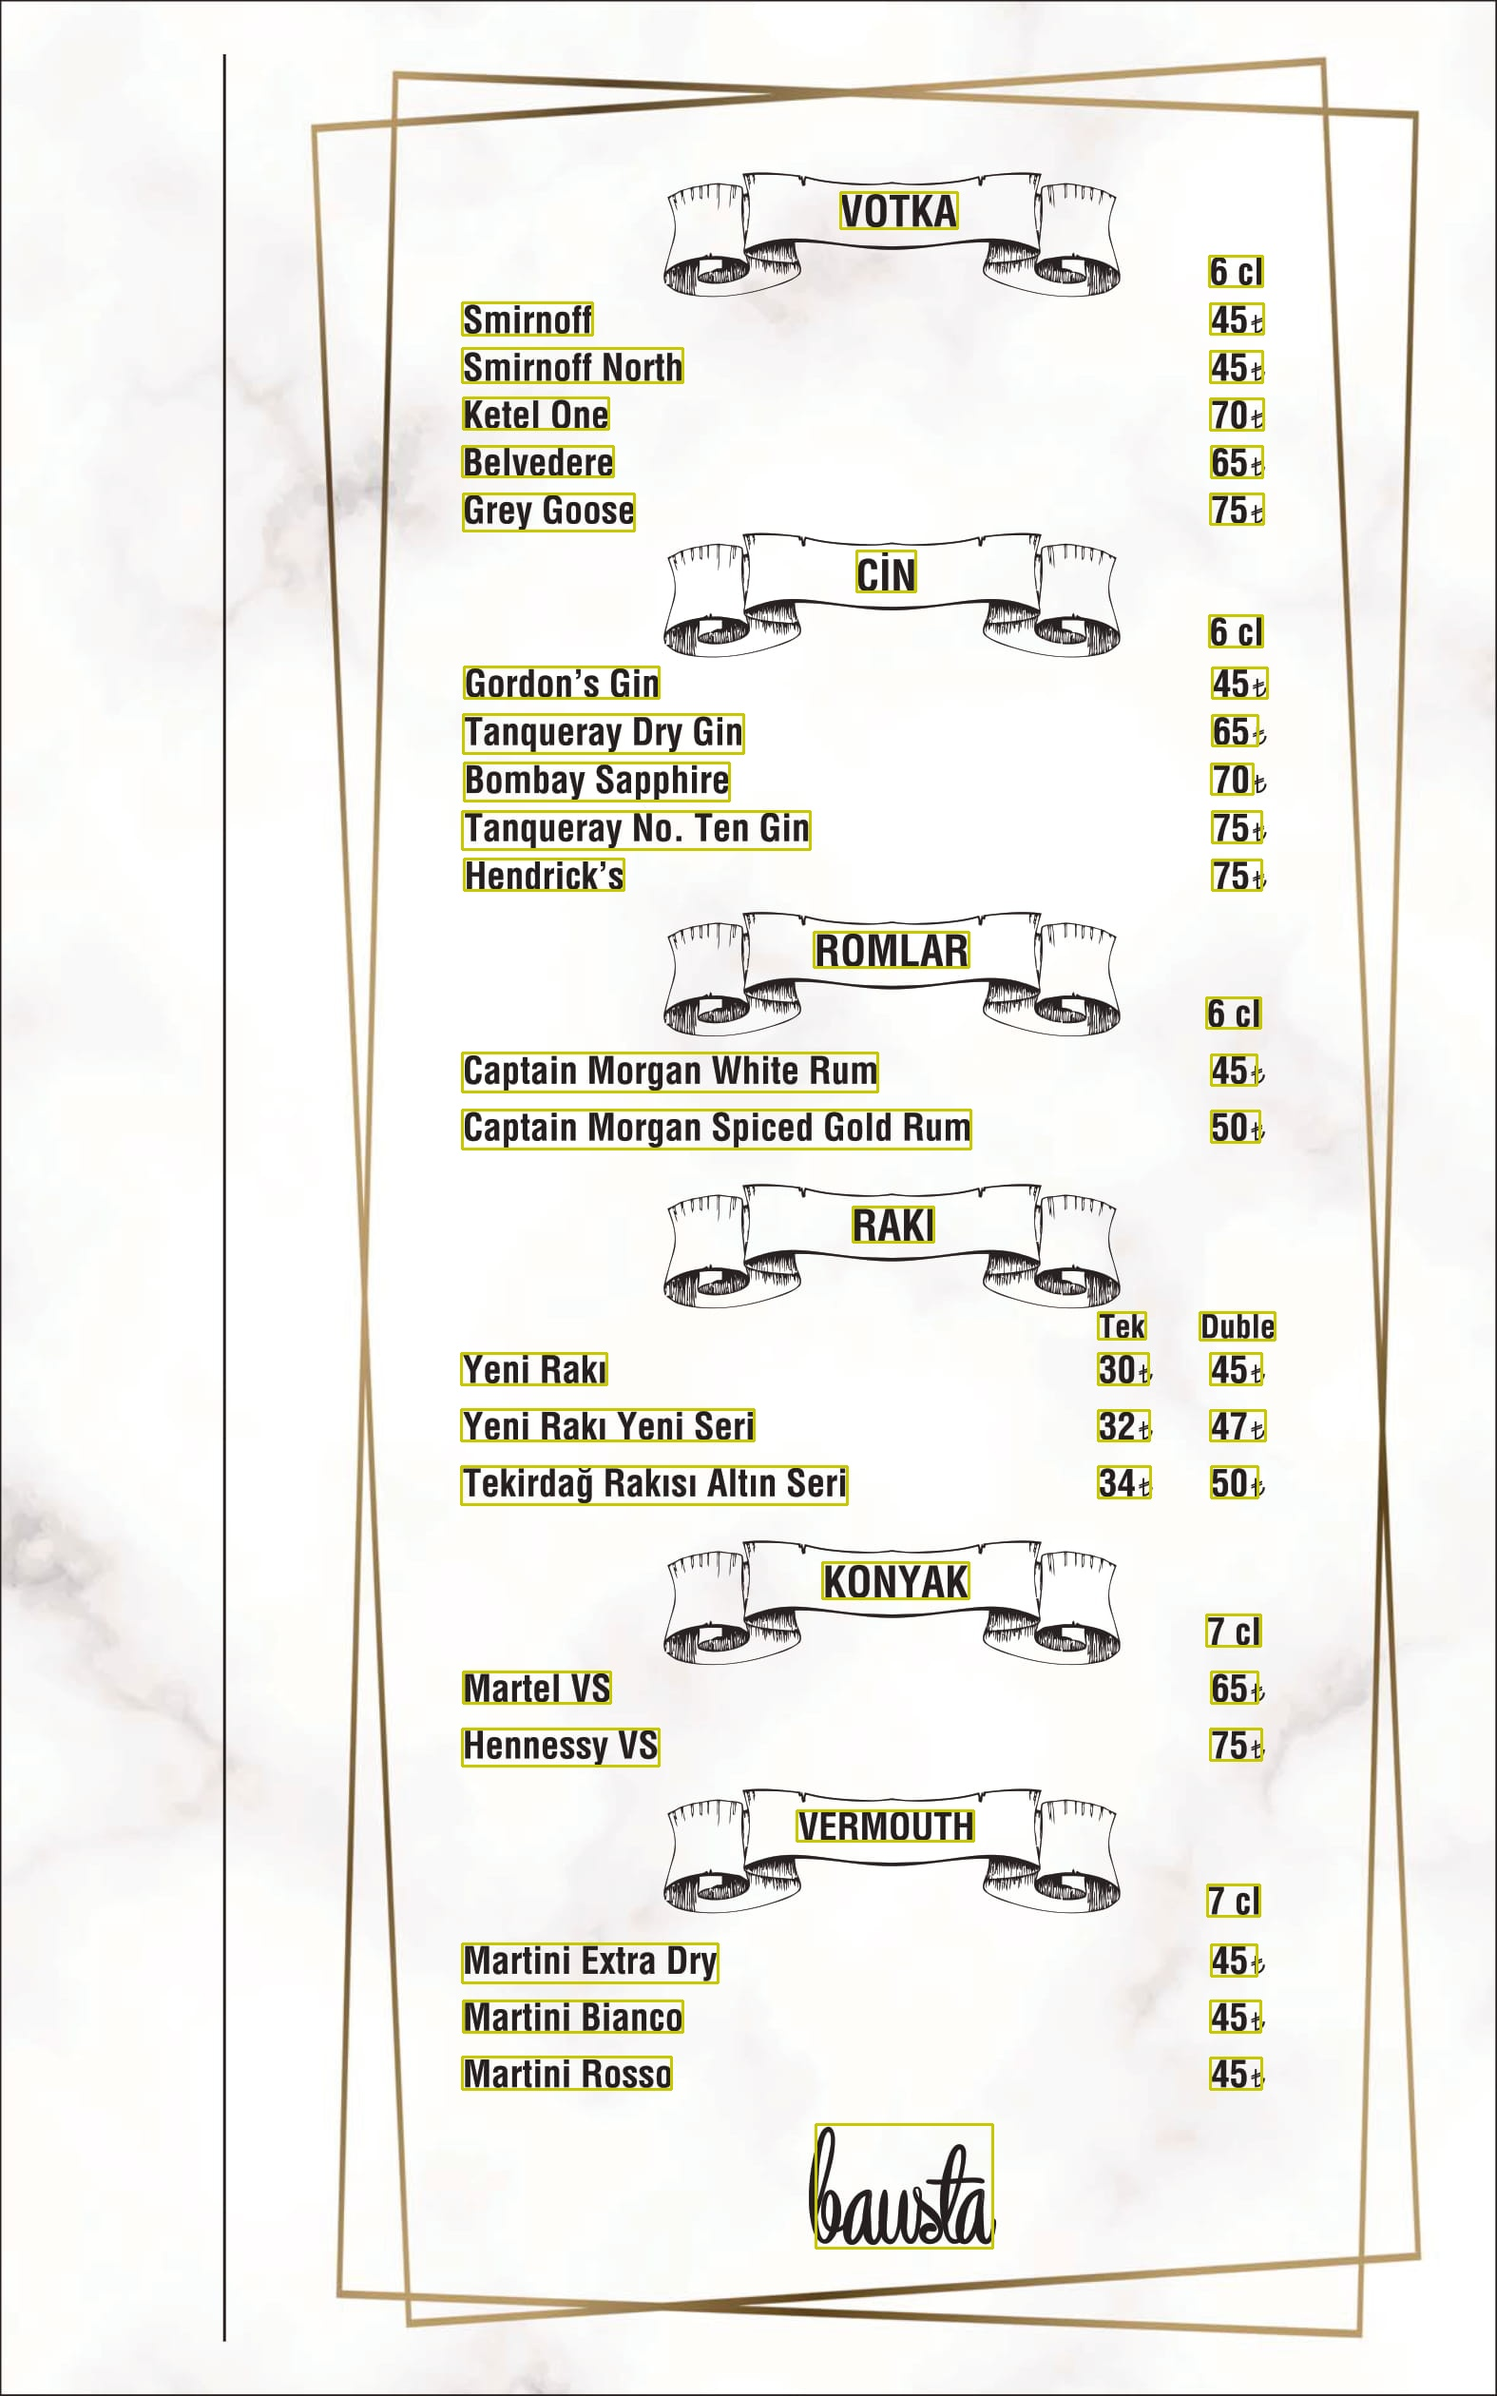
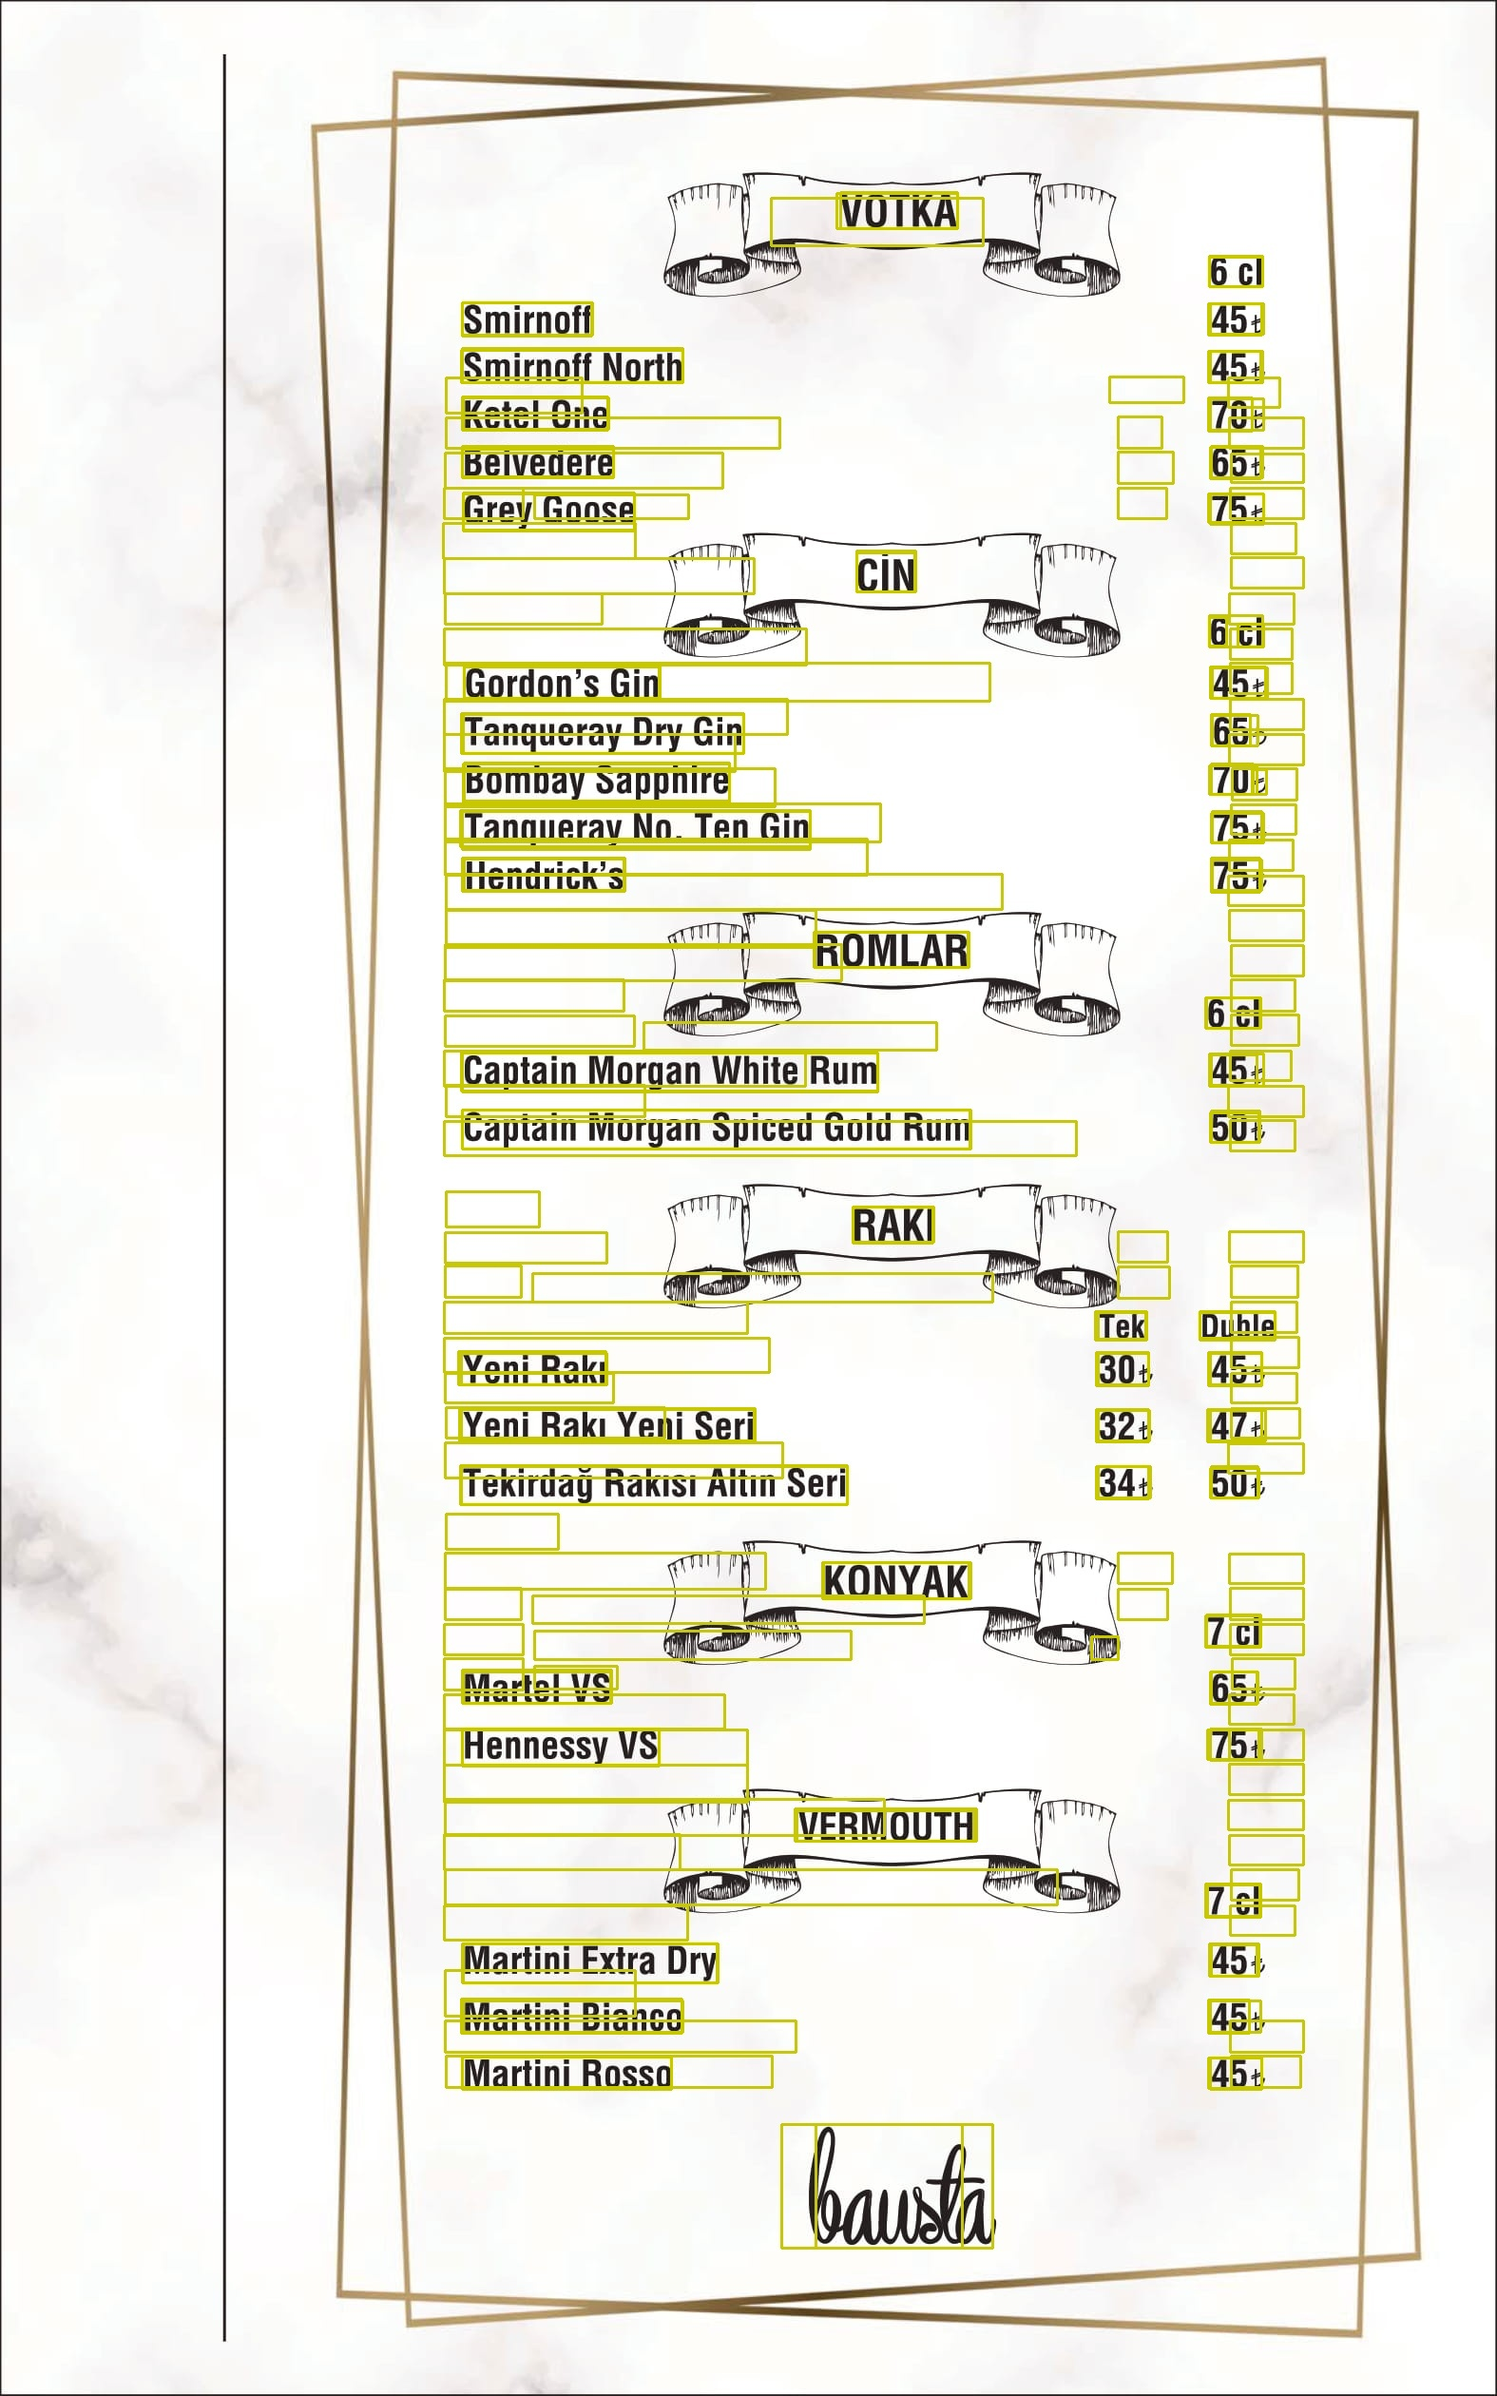
Organized GUI

diff --git a/src/main/resources/static/index.html b/src/main/resources/static/index.html
@@ -37,37 +37,39 @@
 <!-- Navbar -->
   <form style="margin-top:500px" method="post" action="/upload" enctype="multipart/form-data">
       <center>
-              <legend>Mod: </legend>
-          <input type="radio" id="mod1" name="mod" value="mod1">
-          <label for="mod1">Mod 1</label><br>
-          <input type="radio" id="mod2" name="mod" value="mod2">
-          <label for="mod2">Mod 2</label><br>
-          </fieldset>
-      </center>
-      <center>
-      <div class="col-lg-12 col-md-12 col-sm-12">
-
-         <div class="input-group">
-          <div class="input-group-prepend">
-            <input type="submit" class="input-group-text" value="Upload Files"></input>
-          </div>
-          <div class="custom-file">
-            <input name="files" type="file" class="custom-file-input" id="inputGroupFile01"
-              aria-describedby="inputGroupFileAddon01" multiple>
-            <label class="custom-file-label" for="inputGroupFile01">Choose file</label>
-          </div>
-        </div>
-      </div>
-    </center>
-      <center>
-          <div class="col-lg-6 col-md-6 col-sm-12">
-              <div class="md-form">
-                  <input name="restaurantName" type="text" id="inputPlaceholderEx" class="form-control">
-                  <label for="inputPlaceholderEx">Restaurant Name</label>
+          <div style="top: 75%;" class="input-group">
+              <div style="width: 50%;" class="input-group-prepend">
+                  <div class="input-group-text">
+                      <input name="mod" type="radio" id="mod1" value="mod1" aria-label="Radio button for following text input">
+                  </div>
+                  <label for="mod1">Mod 1</label><br>
+              </div>
+              <div class="input-group-prepend">
+                  <div style="width: 50%;" class="input-group-text">
+                      <input name="mod" type="radio" id="mod2" value="mod2" aria-label="Radio button for following text input">
+                  </div>
+                  <label for="mod2">Mod 2</label><br>
               </div>
           </div>
       </center>
-
+      <center>
+          <div class="input-group mb-3">
+                  <div class="input-group-prepend">
+                      <input type="submit" class="input-group-text" value="Upload Files"></input>
+                  </div>
+                  <div class="custom-file">
+                      <input name="files" type="file" class="custom-file-input" id="inputGroupFile01"
+                             aria-describedby="inputGroupFileAddon01" multiple>
+                      <label class="custom-file-label" for="inputGroupFile01">Choose file</label>
+                  </div>
+          </div>
+          <div style="top: 35%;" class="input-group mb-3">
+              <div class="input-group-prepend">
+                  <span class="input-group-text" >Restaurant Name</span>
+              </div>
+              <input name="restaurantName" type="text" class="form-control" aria-label="Default" aria-describedby="inputGroup-sizing-default">
+          </div>
+      </center>
 
 </form>
 

diff --git a/src/main/resources/templates/menuItemsUpdatePage.html b/src/main/resources/templates/menuItemsUpdatePage.html
@@ -23,13 +23,13 @@
     </div>
 
 </nav>
-<div class="column">
+<div style="width: 40%;" class="column">
     <div th:if="${filenames}">
         <div class="slideshow-container">
 
             <th:block th:each="filename : ${filenames}">
                 <div class="mySlides fade">
-                    <img th:src="${'/imagesWithBoundingBoxes/' + filename}" style="width:100%">
+                    <img th:src="${'./images/' + filename}" style="width:100%">
                 </div>
 
                 <!-- Next and previous buttons -->
@@ -45,7 +45,7 @@
     <img style="width: 100%;" th:src="${'/imagesWithBoundingBoxes/' + filename}"></img>
     -->
 </div>
-<div class="column">
+<div style="width: 60%;" class="column">
     <div class="example-parent">
         <button type="button" style="width: 100%;" data-toggle="modal" data-target="#addNewDishModal" class="btn btn-outline-primary waves-effect">Add New</button>
     </div>
@@ -137,7 +137,7 @@
                     Actions<br>
                     <div class="container">
                         <div class="col-lg-6 col-md-6 col-sm-6">
-                            <button class="btn btn-warning" th:data-dish-id="${dish.dishID}" th:data-menu-id="${menuId}" th:data-category-object="${dish.dishID + 'category'}" th:data-name-object="${dish.dishID+'name'}" th:data-description-object="${dish.dishID + 'description'}" th:data-price-object="${dish.dishID + 'price'}"  onclick="fillTheForm(this)">Update</button>
+                            <button class="btn btn-success" th:data-dish-id="${dish.dishID}" th:data-menu-id="${menuId}" th:data-category-object="${dish.dishID + 'category'}" th:data-name-object="${dish.dishID+'name'}" th:data-description-object="${dish.dishID + 'description'}" th:data-price-object="${dish.dishID + 'price'}"  onclick="fillTheForm(this)">Update</button>
                         </div>
                         <div class="col-lg-6 col-md-6 col-sm-6">
                             <button class="btn btn-warning" ondragover="onDragOver(event);" ondrop="onDropTrash(event);" data-dish-id="1" data-menu-id="1" data-category-object="category1" data-name-object="name1" data-description-object="description1" data-price-object="price1"  onclick="fillTheForm(this)"><i class="fas fa-trash"></i></i></button>
@@ -191,7 +191,7 @@
                                 <input name = "filename" type="text" th:value="${filename}" style="display: none;" \>
                             </th:block>
                         </div>
-                        <button class="btn btn-info" type="submit">Save</button>
+                        <button class="btn btn-outline-primary waves-effect" type="submit">Save</button>
                     </form>
                 </div>
             </div>

diff --git a/src/main/resources/templates/categoriesUpdatePage.html b/src/main/resources/templates/categoriesUpdatePage.html
@@ -85,7 +85,7 @@ button:hover{
     <h3 class="card-header text-center font-weight-bold text-uppercase py-4">Editable table</h3>
     <div class="card-body">
         <div id="table" class="table-editable">
-      <span class="table-add float-right mb-3 mr-2"><a data-toggle="modal" data-target="#addNewCategoryModal" class="text-success"><i class="fas fa-plus fa-2x" aria-hidden="true"></i></a></span>
+      <span class="table-add float-right mb-3 mr-2"><a data-toggle="modal" data-target="#addNewCategoryModal" class="text-success"><i style="color: #4285f4;" class="fas fa-plus fa-2x" aria-hidden="true"></i></a></span>
             <table class="table table-bordered table-responsive-md table-striped text-center">
                 <thead>
                 <tr>
@@ -101,7 +101,7 @@ button:hover{
                             <tr>
                                 <td class="pt-3-half" th:text="${category.name}" th:value="${category.name}"></td>
                                 <td>
-                                    <span><button type="button" class="btn btn-success btn-rounded btn-sm my-0" data-toggle="modal" data-target="#editModal" th:data-id="${category.categoryID}" th:data-text="${category.name}" onclick="loadValues(this)">Edit</button></span>
+                                    <span><button type="button" class="btn btn-outline-primary waves-effect" data-toggle="modal" data-target="#editModal" th:data-id="${category.categoryID}" th:data-text="${category.name}" onclick="loadValues(this)">Edit</button></span>
                                 </td>
 
 
@@ -161,7 +161,7 @@ button:hover{
                             <label>Ocr Text</label>
                             <input name="ocrText" id="ocrText" class="form-control" type = "text"></input>
                         </div>
-                        <button class="btn btn-info" id = "save" type="submit">Save</button>
+                        <button class="btn btn-outline-primary waves-effect" id = "save" type="submit">Save</button>
                     </form>
                 </div>
             </div>

diff --git a/src/main/resources/static/css/main.css b/src/main/resources/static/css/main.css
@@ -1,5 +1,9 @@
+.add-new: hover{
+    color: green;
+    border-color: green;
+}
 .example-parent {
-    border: 2px solid #DFA612;
+    border: 2px solid #4285f4;
     color: black;
     display: flex;
     font-family: sans-serif;
@@ -13,11 +17,13 @@
   }
   
   .example-draggable {
-    background-color: #4AAE9B;
     font-weight: normal;
     margin-bottom: 10px;
     margin-top: 10px;
     padding: 10px;
+    border-radius: 5px;
+    border: 2px solid #4285f4;
+    border-style: dashed;
   }
   
   .example-dropzone {
@@ -115,4 +121,12 @@
      transform: translate(0%, -50%);
    }
 
-   .add:hover {background: #bbb;}
+.add:hover {background: #bbb;}
+
+.table-bordered td, .table-bordered th {
+    border: 1px solid #4285f4;
+}
+.table thead th {
+    vertical-align: bottom;
+    border-bottom: 2px solid #4285f4;
+}

diff --git a/src/main/resources/static/js/drag-n-drop.js b/src/main/resources/static/js/drag-n-drop.js
@@ -24,8 +24,8 @@ function onDrop(event){
 
     draggableElement
     .style
-    .backgroundColor = '#4AAE9B';
-    
+    .backgroundColor = 'white';
+
     event
     .dataTransfer
     .clearData();

diff --git a/src/main/java/com/example/ocrGUI/util/BoundingBoxDrawer.java b/src/main/java/com/example/ocrGUI/util/BoundingBoxDrawer.java
@@ -31,8 +31,11 @@ public class BoundingBoxDrawer {
                     Imgproc.rectangle(output, new Point(left,top), new Point(right,top+height), new Scalar(0, 200, 200), 2);
                 }
             }
-            Imgcodecs.imwrite("/imagesWithBoundingBoxes/"+filename, output);
+            String newName = filename.substring(0, filename.indexOf("."));
+            newName += ".bmp";
+            Imgcodecs.imwrite("./src/main/resources/static/images/"+newName, output);
         } catch (Exception e){
+            System.out.println("HERE");
             e.printStackTrace();
         }
     }
@@ -40,7 +43,7 @@ public class BoundingBoxDrawer {
         try {
             nu.pattern.OpenCV.loadShared();
             //System.loadLibrary(org.opencv.core.Core.NATIVE_LIBRARY_NAME);
-            Mat image = Imgcodecs.imread("./src/main/resources/images/"+filename, 1);
+            Mat image = Imgcodecs.imread("./src/main/resources/static/images/"+filename, 1);
             Mat output = image.clone();
             for(BoundingBox box : boundingBoxes){
                     double right= (box.getWidth()+box.getLeft()) * image.width();
@@ -49,7 +52,7 @@ public class BoundingBoxDrawer {
                     double top = box.getTop() * image.height();
                     Imgproc.rectangle(output, new Point(left,top), new Point(right,top+height), new Scalar(0, 200, 200), 2);
             }
-            Imgcodecs.imwrite("/imagesWithBoundingBoxes/"+filename, output);
+            Imgcodecs.imwrite("./src/main/resources/static/images/"+filename, output);
         } catch (Exception e){
             e.printStackTrace();
         }

diff --git a/src/main/java/com/example/ocrGUI/controllers/MenuController.java b/src/main/java/com/example/ocrGUI/controllers/MenuController.java
@@ -135,7 +135,7 @@ public class MenuController {
     }
     public List<Block> runOcrMod1(String filename) throws Exception{
         ByteBuffer imageBytes;
-        InputStream inputStream = new FileInputStream(new File("./src/main/resources/images/"+filename));
+        InputStream inputStream = new FileInputStream(new File("./src/main/resources/static/images/"+filename));
             imageBytes = ByteBuffer.wrap(IOUtils.toByteArray(inputStream));
             AmazonTextract client = AmazonTextractClientBuilder.defaultClient();
             DetectDocumentTextRequest request = new DetectDocumentTextRequest()
@@ -150,7 +150,7 @@ public class MenuController {
     }
     public List<Block> runOcrMod2(String filename){
         ByteBuffer imageBytes;
-        try (InputStream inputStream = new FileInputStream(new File("./src/main/resources/images/"+filename))) {
+        try (InputStream inputStream = new FileInputStream(new File("./src/main/resources/static/images/"+filename))) {
             imageBytes = ByteBuffer.wrap(IOUtils.toByteArray(inputStream));
             AmazonTextract client = AmazonTextractClientBuilder.defaultClient();
             AnalyzeDocumentRequest request = new AnalyzeDocumentRequest()

diff --git a/src/main/java/com/example/ocrGUI/controllers/FileUploadController.java b/src/main/java/com/example/ocrGUI/controllers/FileUploadController.java
@@ -22,7 +22,7 @@ import java.util.ArrayList;
 @Controller
 public class FileUploadController {
 
-    public static String uploadDirectory = "./src/main/resources/images";
+    public static String uploadDirectory = "/images";
 
     @RequestMapping(value= "/upload", method = RequestMethod.POST)
     public String upload(Model model, @RequestParam("restaurantName") String restaurantName, @RequestParam("files") MultipartFile[] files,
